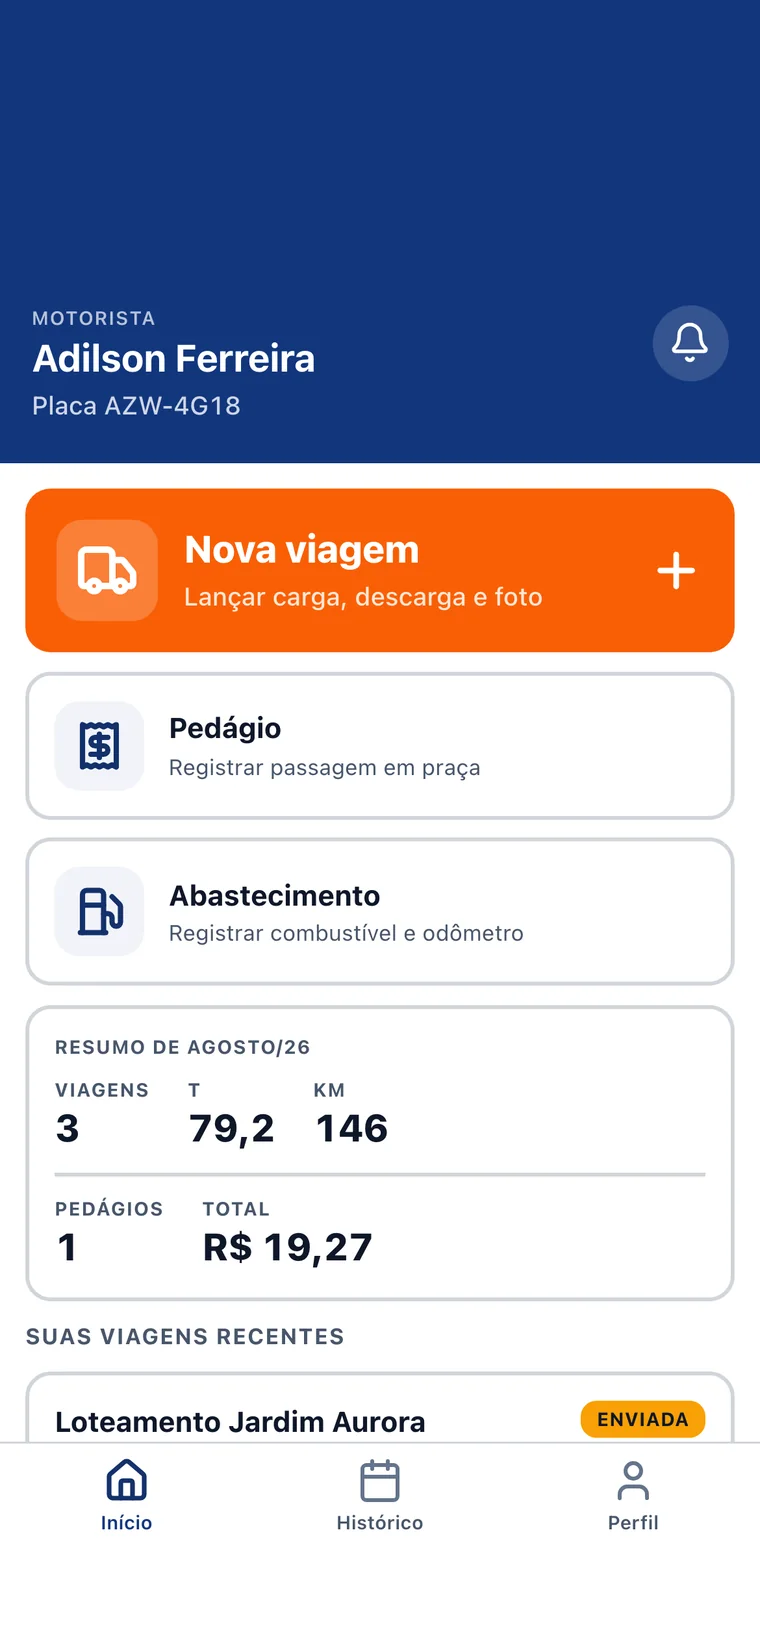
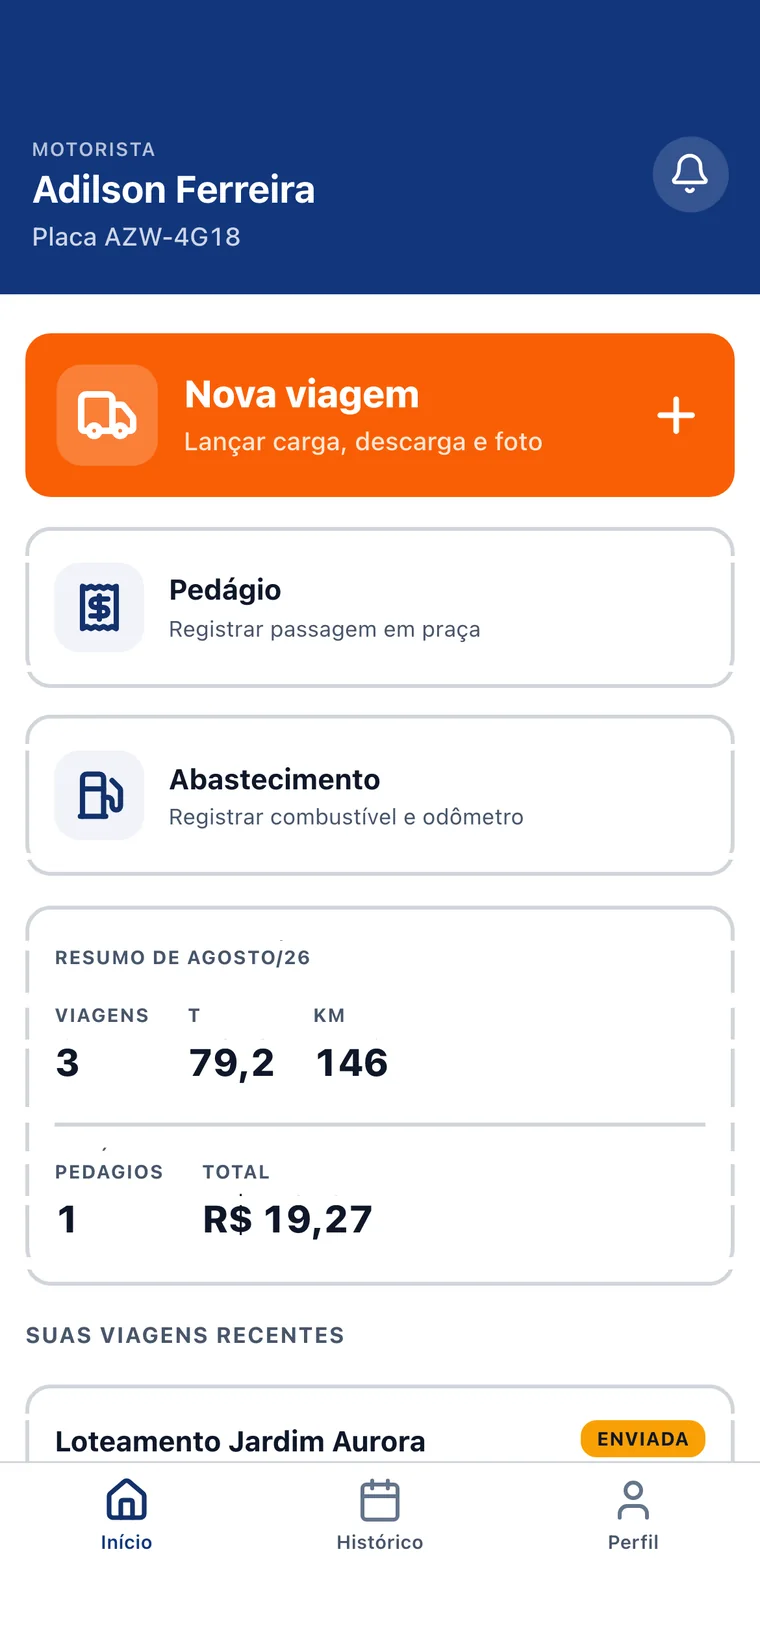
O header do app volta ao tamanho de verdade
A correção anterior acertou a silhueta e estragou o cabeçalho: 410px de azul
empilhados no topo deixaram o header quase três vezes maior do que ele é no
aparelho.

O que faltava na captura era área de conteúdo, não cabeçalho — a janela é que
era curta. Agora o script acha os vãos de cor sólida entre cards e campos e
distribui a altura que falta entre eles, proporcionalmente. Header e barra de
navegação ficam do tamanho real, e nas pontas entra só o indispensável: 150px
de barra de status e 100px de indicador de home.

Faixas na cor do header ficam de fora da conta, justamente pra ele não voltar
a engordar.

Claude-Session: https://claude.ai/code/session_01D7RVmjRSAYovrjN11R3q46

Changed region(s): [[0.0, 0.062, 1.0, 0.9611], [0.7566, 0.8371, 0.9684, 0.9611]]

diff --git a/apps/site/scripts/gerar-telas.py b/apps/site/scripts/gerar-telas.py
@@ -3,12 +3,20 @@
 
 Rodar da raiz do repositório:  python3 apps/site/scripts/gerar-telas.py
 
-As capturas do app vieram num viewport curto (1170x1992 = 0,587), bem mais
-larga que a proporção real de um iPhone (0,462). Emoldurada, essa tela vira um
-"celular gordo". Como o topo é azul sólido e a base é branca sólida nas cinco
-capturas, dá pra estender a moldura com a própria cor da borda — sem inventar
-conteúdo — e devolver a silhueta certa. O acréscimo vai quase todo no topo,
-porque as telas com barra de navegação inferior precisam dela colada na base.
+As capturas do app saíram num viewport curto (1170x1992 = 0,587), bem mais
+larga que a proporção real de um iPhone (0,462). Dentro de uma moldura de
+celular isso vira um "aparelho achatado".
+
+O jeito ERRADO de consertar é empilhar azul no topo: o header incha e fica
+diferente do app de verdade. O certo é esticar o MIOLO — as telas foram
+capturadas numa janela curta, então o que falta é área de conteúdo, não
+cabeçalho. O script acha as faixas de cor uniforme (os vãos entre cards e
+campos) e distribui a altura que falta entre elas, proporcionalmente. Header e
+barra de navegação inferior ficam com o tamanho real, e a proporção entre eles
+e a tela passa a ser a mesma que o motorista vê no aparelho.
+
+Sobra só o indispensável nas pontas: a faixa da barra de status no topo e a do
+indicador de home embaixo.
 """
 
 from PIL import Image
@@ -18,32 +26,98 @@ import os
 ORIGEM = "proposta-alex/imagens"
 DESTINO = "apps/site/public/telas"
 
-TOPO_EXTRA = 410  # faixa do header/status bar
-BASE_EXTRA = 130  # área do indicador de home
+PROPORCAO_IPHONE = 1170 / 2532  # 0,4621
+
+FAIXA_STATUS = 150  # barra de status, na cor do header
+FAIXA_HOME = 100    # indicador de home, na cor do rodapé
 
 LARGURA_CELULAR = 760
 LARGURA_PAINEL = 1600
 
 
-def cor_solida(im, y):
-    """Cor da linha y, conferindo que ela é mesmo uniforme."""
+def linha_uniforme(im, y, tol=4):
+    """Cor da linha y, ou None se ela não for de cor sólida."""
     w = im.size[0]
-    amostras = [im.getpixel((x, y)) for x in range(0, w, max(1, w // 40))]
+    amostras = [im.getpixel((x, y)) for x in range(0, w, max(1, w // 60))]
     for canal in range(3):
-        valores = [c[canal] for c in amostras]
-        if max(valores) - min(valores) > 6:
-            raise SystemExit(
-                f"linha y={y} não é cor sólida — estender ia criar uma emenda visível"
-            )
+        valores = [a[canal] for a in amostras]
+        if max(valores) - min(valores) > tol:
+            return None
     return amostras[0]
 
 
-def estender_para_celular(im):
+def faixas_uniformes(im, y_inicio, y_fim, cor_header, minimo=8):
+    """Trechos contíguos de cor sólida entre y_inicio e y_fim.
+
+    Faixas na cor do header ficam de fora: esticar ali engordaria o cabeçalho,
+    que é exatamente o defeito que estamos corrigindo.
+    """
+    faixas, atual = [], None
+    for y in range(y_inicio, y_fim):
+        cor = linha_uniforme(im, y)
+        do_header = cor and max(abs(cor[i] - cor_header[i]) for i in range(3)) <= 10
+        if cor and not do_header:
+            if atual and atual[2] == cor:
+                atual = (atual[0], y, cor)
+            else:
+                if atual and atual[1] - atual[0] >= minimo:
+                    faixas.append(atual)
+                atual = (y, y, cor)
+        else:
+            if atual and atual[1] - atual[0] >= minimo:
+                faixas.append(atual)
+            atual = None
+    if atual and atual[1] - atual[0] >= minimo:
+        faixas.append(atual)
+    return faixas
+
+
+def esticar_miolo(im):
     w, h = im.size
-    nova = Image.new("RGB", (w, h + TOPO_EXTRA + BASE_EXTRA))
-    nova.paste(Image.new("RGB", (w, TOPO_EXTRA), cor_solida(im, 2)), (0, 0))
-    nova.paste(im, (0, TOPO_EXTRA))
-    nova.paste(Image.new("RGB", (w, BASE_EXTRA), cor_solida(im, h - 3)), (0, TOPO_EXTRA + h))
+    cor_header = linha_uniforme(im, 2)
+    cor_rodape = linha_uniforme(im, h - 3)
+    if cor_header is None or cor_rodape is None:
+        raise SystemExit(
+            "topo ou base não é cor sólida — estender ia criar uma emenda visível"
+        )
+
+    altura_final = round(w / PROPORCAO_IPHONE)
+    falta = altura_final - h - FAIXA_STATUS - FAIXA_HOME
+    if falta < 0:
+        return im
+
+    # o miolo exclui o topo (header) e os 12% de baixo (barra de navegação, que
+    # precisa continuar colada na base)
+    faixas = faixas_uniformes(im, 60, int(h * 0.88), cor_header)
+    disponivel = sum(f[1] - f[0] for f in faixas)
+    if disponivel < falta * 0.5:
+        raise SystemExit("vãos de sobra insuficientes pra esticar sem deformar")
+
+    # distribui proporcionalmente ao tamanho de cada vão
+    extra = {}
+    for i, f in enumerate(faixas):
+        extra[i] = round(falta * (f[1] - f[0]) / disponivel)
+    sobra = falta - sum(extra.values())
+    if faixas:
+        maior = max(range(len(faixas)), key=lambda i: faixas[i][1] - faixas[i][0])
+        extra[maior] += sobra
+
+    nova = Image.new("RGB", (w, altura_final))
+    y_destino = 0
+    nova.paste(Image.new("RGB", (w, FAIXA_STATUS), cor_header), (0, 0))
+    y_destino += FAIXA_STATUS
+
+    pontos = {f[1]: extra[i] for i, f in enumerate(faixas)}
+    y_origem = 0
+    for y in range(h):
+        nova.paste(im.crop((0, y, w, y + 1)), (0, y_destino))
+        y_destino += 1
+        if y in pontos and pontos[y] > 0:
+            cor = linha_uniforme(im, y)
+            nova.paste(Image.new("RGB", (w, pontos[y]), cor), (0, y_destino))
+            y_destino += pontos[y]
+
+    nova.paste(Image.new("RGB", (w, altura_final - y_destino), cor_rodape), (0, y_destino))
     return nova
 
 
@@ -56,7 +130,7 @@ def main():
         celular = im.size[1] > im.size[0]
 
         if celular:
-            im = estender_para_celular(im)
+            im = esticar_miolo(im)
             alvo = LARGURA_CELULAR
         else:
             alvo = LARGURA_PAINEL

diff --git a/apps/site/README.md b/apps/site/README.md
@@ -41,19 +41,26 @@ Pra regerar depois de trocar alguma tela, da raiz do repositório:
 python3 apps/site/scripts/gerar-telas.py
 ```
 
-O script faz uma coisa que não é óbvia: as capturas do app saíram num viewport
-curto (1170x1992 = **0,587**), muito mais larga que a proporção real de um
-iPhone (**0,462**). Dentro de uma moldura de celular isso vira um "celular
-gordo". Como o topo é azul sólido e a base é branca sólida em todas elas, o
-script estende a imagem com a própria cor da borda — sem inventar conteúdo — e
-devolve a silhueta certa. O acréscimo vai quase todo no topo, porque as telas
-com barra de navegação inferior precisam dela colada na base. Se uma captura
-nova não tiver borda de cor sólida, o script para e avisa em vez de gerar uma
-emenda visível.
+As capturas do app saíram num viewport curto — `1170x1992`, proporção **0,587**,
+contra os **0,462** de um iPhone real. Dentro de uma moldura de celular isso lê
+como aparelho achatado.
 
-Ao trocar a proporção das telas de celular, atualizar também `width`/`height`
-do componente `Celular` em `src/componentes/ui.tsx` — eles precisam bater com o
-arquivo, senão volta o layout shift.
+O jeito errado de corrigir (já tentado e descartado) é empilhar azul no topo: o
+header incha e fica diferente do app de verdade. O certo é **esticar o miolo** —
+o que faltou na captura foi área de conteúdo, não cabeçalho. O script acha as
+faixas de cor sólida (os vãos entre cards e campos) e distribui a altura que
+falta entre elas, proporcionalmente ao tamanho de cada vão. Header e barra de
+navegação inferior ficam do tamanho real, e a relação entre eles e a tela vira a
+mesma que o motorista vê no aparelho. Nas pontas entra só o indispensável:
+150px de barra de status e 100px de indicador de home.
+
+Duas travas no script: faixas na cor do header são ignoradas (esticar ali
+engordaria o cabeçalho), e se o topo ou a base de uma captura nova não for de
+cor sólida ele para e avisa, em vez de gerar uma emenda visível.
+
+Ao mudar a proporção das telas de celular, atualizar também `width`/`height` do
+componente `Celular` em `src/componentes/ui.tsx` — precisam bater com o arquivo,
+senão volta o layout shift.
 
 `public/og.png` (1200×630) é gerado por script — ver o histórico do commit que
 criou o site.
